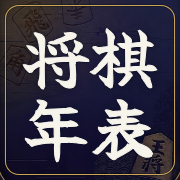
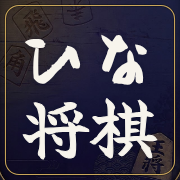
アプリの名前を「ひな将棋」にして、アイコンも「ひな将棋」に作りかえる
Claude-Session: https://claude.ai/code/session_018ByozwT5KrkXCSEL4kJBAn

Changed region(s): [[0.1111, 0.5278, 0.8889, 0.9167], [0.5, 0.1389, 0.8889, 0.5], [0.1111, 0.1667, 0.5, 0.5]]

diff --git a/shoritsu.html b/shoritsu.html
@@ -3,12 +3,12 @@
 <head>
 <meta charset="utf-8">
 <meta name="viewport" content="width=device-width, initial-scale=1, viewport-fit=cover">
-<title>勝率チェック</title>
+<title>勝率チェック - ひな将棋</title>
 <meta name="description" content="リーグ戦の勝ち・負けの数から、勝率と勝ち越しをすぐに出す">
 <meta name="theme-color" content="#faf8f3">
 <link rel="icon" href="./icon-192.png">
 <link rel="apple-touch-icon" href="./apple-touch-icon.png">
-<meta name="apple-mobile-web-app-title" content="将棋年表">
+<meta name="apple-mobile-web-app-title" content="ひな将棋">
 <meta name="apple-mobile-web-app-capable" content="yes">
 <meta name="apple-mobile-web-app-status-bar-style" content="default">
 <link rel="manifest" href="./app.webmanifest">

diff --git a/index.html b/index.html
@@ -3,12 +3,12 @@
 <head>
 <meta charset="utf-8">
 <meta name="viewport" content="width=device-width, initial-scale=1, viewport-fit=cover">
-<title>タイトル年表</title>
+<title>タイトル年表 - ひな将棋</title>
 <meta name="description" content="将棋の八大タイトル、歴代タイトルホルダーの年表">
 <meta name="theme-color" content="#faf8f3">
 <link rel="icon" href="./icon-192.png">
 <link rel="apple-touch-icon" href="./apple-touch-icon.png">
-<meta name="apple-mobile-web-app-title" content="将棋年表">
+<meta name="apple-mobile-web-app-title" content="ひな将棋">
 <meta name="apple-mobile-web-app-capable" content="yes">
 <meta name="apple-mobile-web-app-status-bar-style" content="default">
 <link rel="manifest" href="./app.webmanifest">

diff --git a/kyu.html b/kyu.html
@@ -3,12 +3,12 @@
 <head>
 <meta charset="utf-8">
 <meta name="viewport" content="width=device-width, initial-scale=1, viewport-fit=cover">
-<title>級の記録</title>
+<title>級の記録 - ひな将棋</title>
 <meta name="description" content="将棋の級位・段位があがってきた記録">
 <meta name="theme-color" content="#faf8f3">
 <link rel="icon" href="./icon-192.png">
 <link rel="apple-touch-icon" href="./apple-touch-icon.png">
-<meta name="apple-mobile-web-app-title" content="将棋年表">
+<meta name="apple-mobile-web-app-title" content="ひな将棋">
 <meta name="apple-mobile-web-app-capable" content="yes">
 <meta name="apple-mobile-web-app-status-bar-style" content="default">
 <link rel="manifest" href="./app.webmanifest">

diff --git a/README.md b/README.md
@@ -1,4 +1,4 @@
-# 将棋 タイトル年表 / 級の記録 / 勝率チェック
+# ひな将棋 (タイトル年表 / 級の記録 / 勝率チェック)
 
 GitHub Pages で公開している、3 枚のページです。
 
